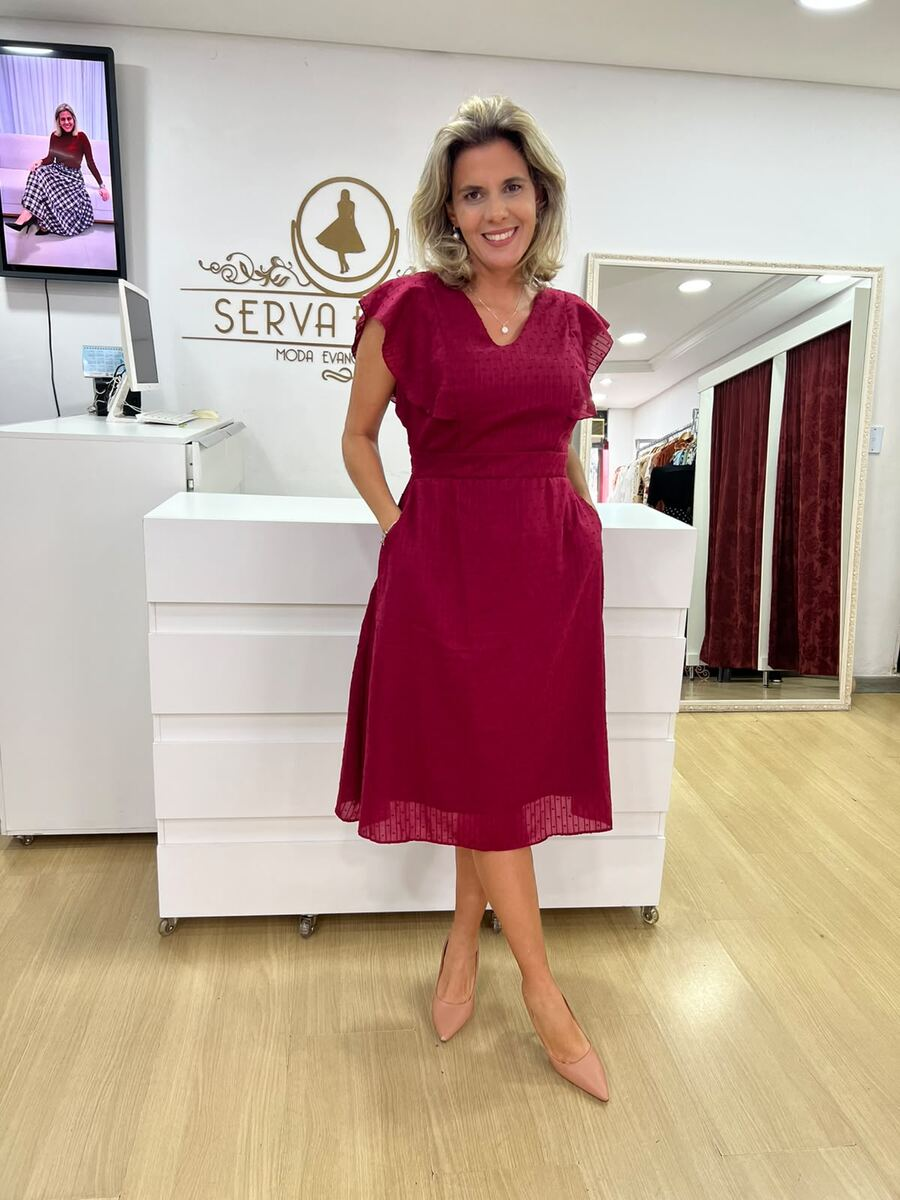
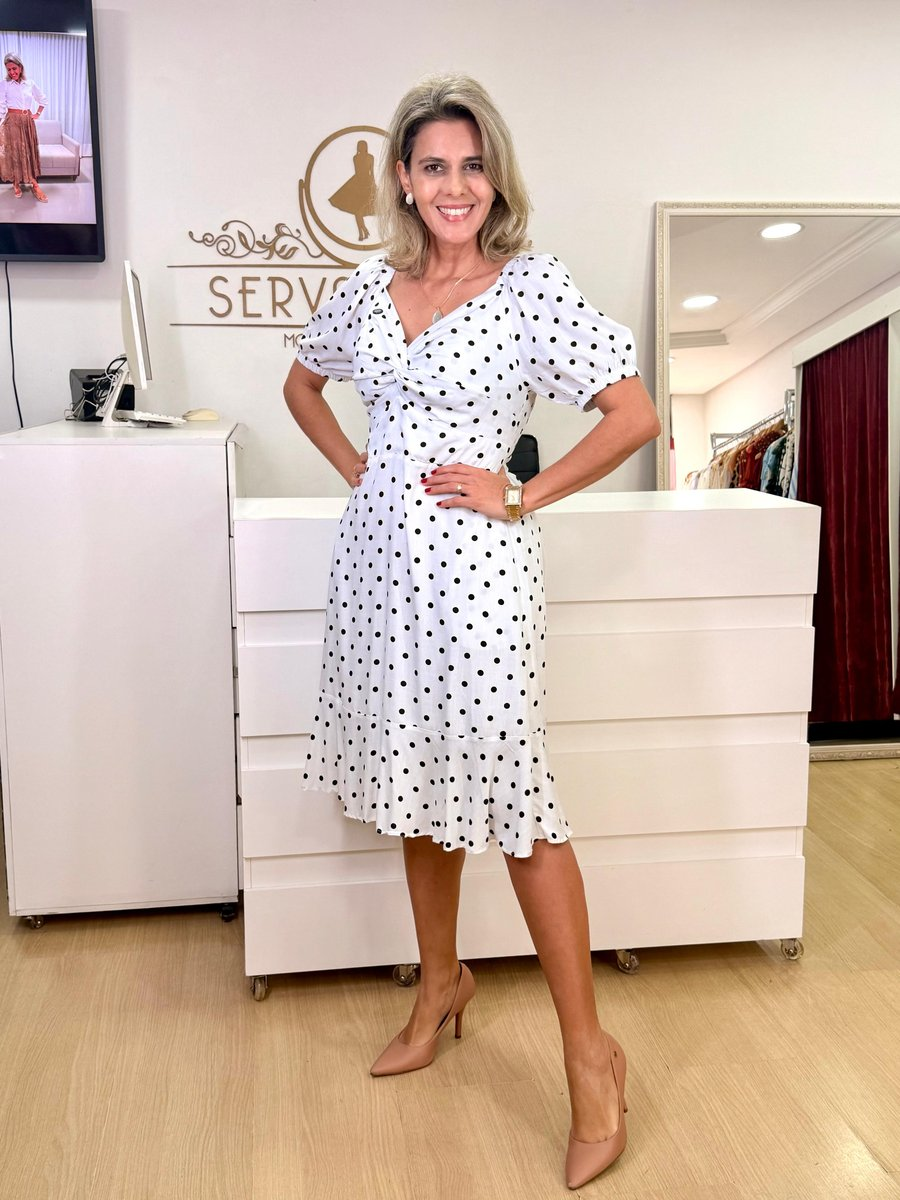
Add AUR-47: Vestido de Linho Poá
Claude-Session: https://claude.ai/code/session_01QuFj6eBhbFVfzAP6AXL4uV

diff --git a/index.html b/index.html
@@ -511,6 +511,22 @@
         Pedir
       </a>
     </article>
+<article class="card" id="AUR-47" data-cat="vestidos">
+      <div class="photo" data-images="img/v22a.jpg?v=1790780000|img/v22b.jpg?v=1790780000|img/v22c.jpg?v=1790780000">
+          <img src="img/v22a.jpg?v=1790780000" alt="Vestido de Linho Poá" loading="lazy" onclick="openLightbox(this)">
+          <div class="thumbs"><button type="button" class="on" onclick="event.stopPropagation();swapPhoto(this,'img/v22a.jpg?v=1790780000')"></button><button type="button" class="" onclick="event.stopPropagation();swapPhoto(this,'img/v22b.jpg?v=1790780000')"></button><button type="button" class="" onclick="event.stopPropagation();swapPhoto(this,'img/v22c.jpg?v=1790780000')"></button></div>
+        </div>
+      <div class="info">
+        <div class="sku">AUR-47</div>
+        <div class="name">Vestido de Linho Poá</div>
+        <div class="detail">Cor: Branco · Tamanho: Único</div>
+        <div class="price">R$ 169,99</div>
+      </div>
+      <a class="pedir-btn" href="https://wa.me/5527999666388?text=Ol%C3%A1%21%20Vi%20no%20cat%C3%A1logo%20e%20quero%20esta%20pe%C3%A7a%3A%0AVestido%20de%20Linho%20Po%C3%A1%20%28R%24%20169%2C99%29%0AVestido%20em%20linho%20com%20estampa%20de%20po%C3%A1%2C%20leve%20e%20charmoso%0ATamanho%3A%20%C3%9Anico%0A%0Ahttps%3A//servabella.github.io/Cat-logo-Aurora/img/v22a.jpg" target="_blank" rel="noopener">
+        <svg viewBox="0 0 24 24" fill="none" stroke="currentColor" stroke-width="2" stroke-linecap="round" stroke-linejoin="round"><path d="M21 11.5a8.4 8.4 0 0 1-12.4 7.4L3 21l2.1-5.4A8.4 8.4 0 1 1 21 11.5Z"/></svg>
+        Pedir
+      </a>
+    </article>
 <article class="card" id="AUR-21" data-cat="vestidos plus">
       <div class="photo" data-images="img/v21a.jpg?v=1790706750">
           <img src="img/v21a.jpg?v=1790706750" alt="Vestido de Linho c/ Lurex" loading="lazy" onclick="openLightbox(this)">
